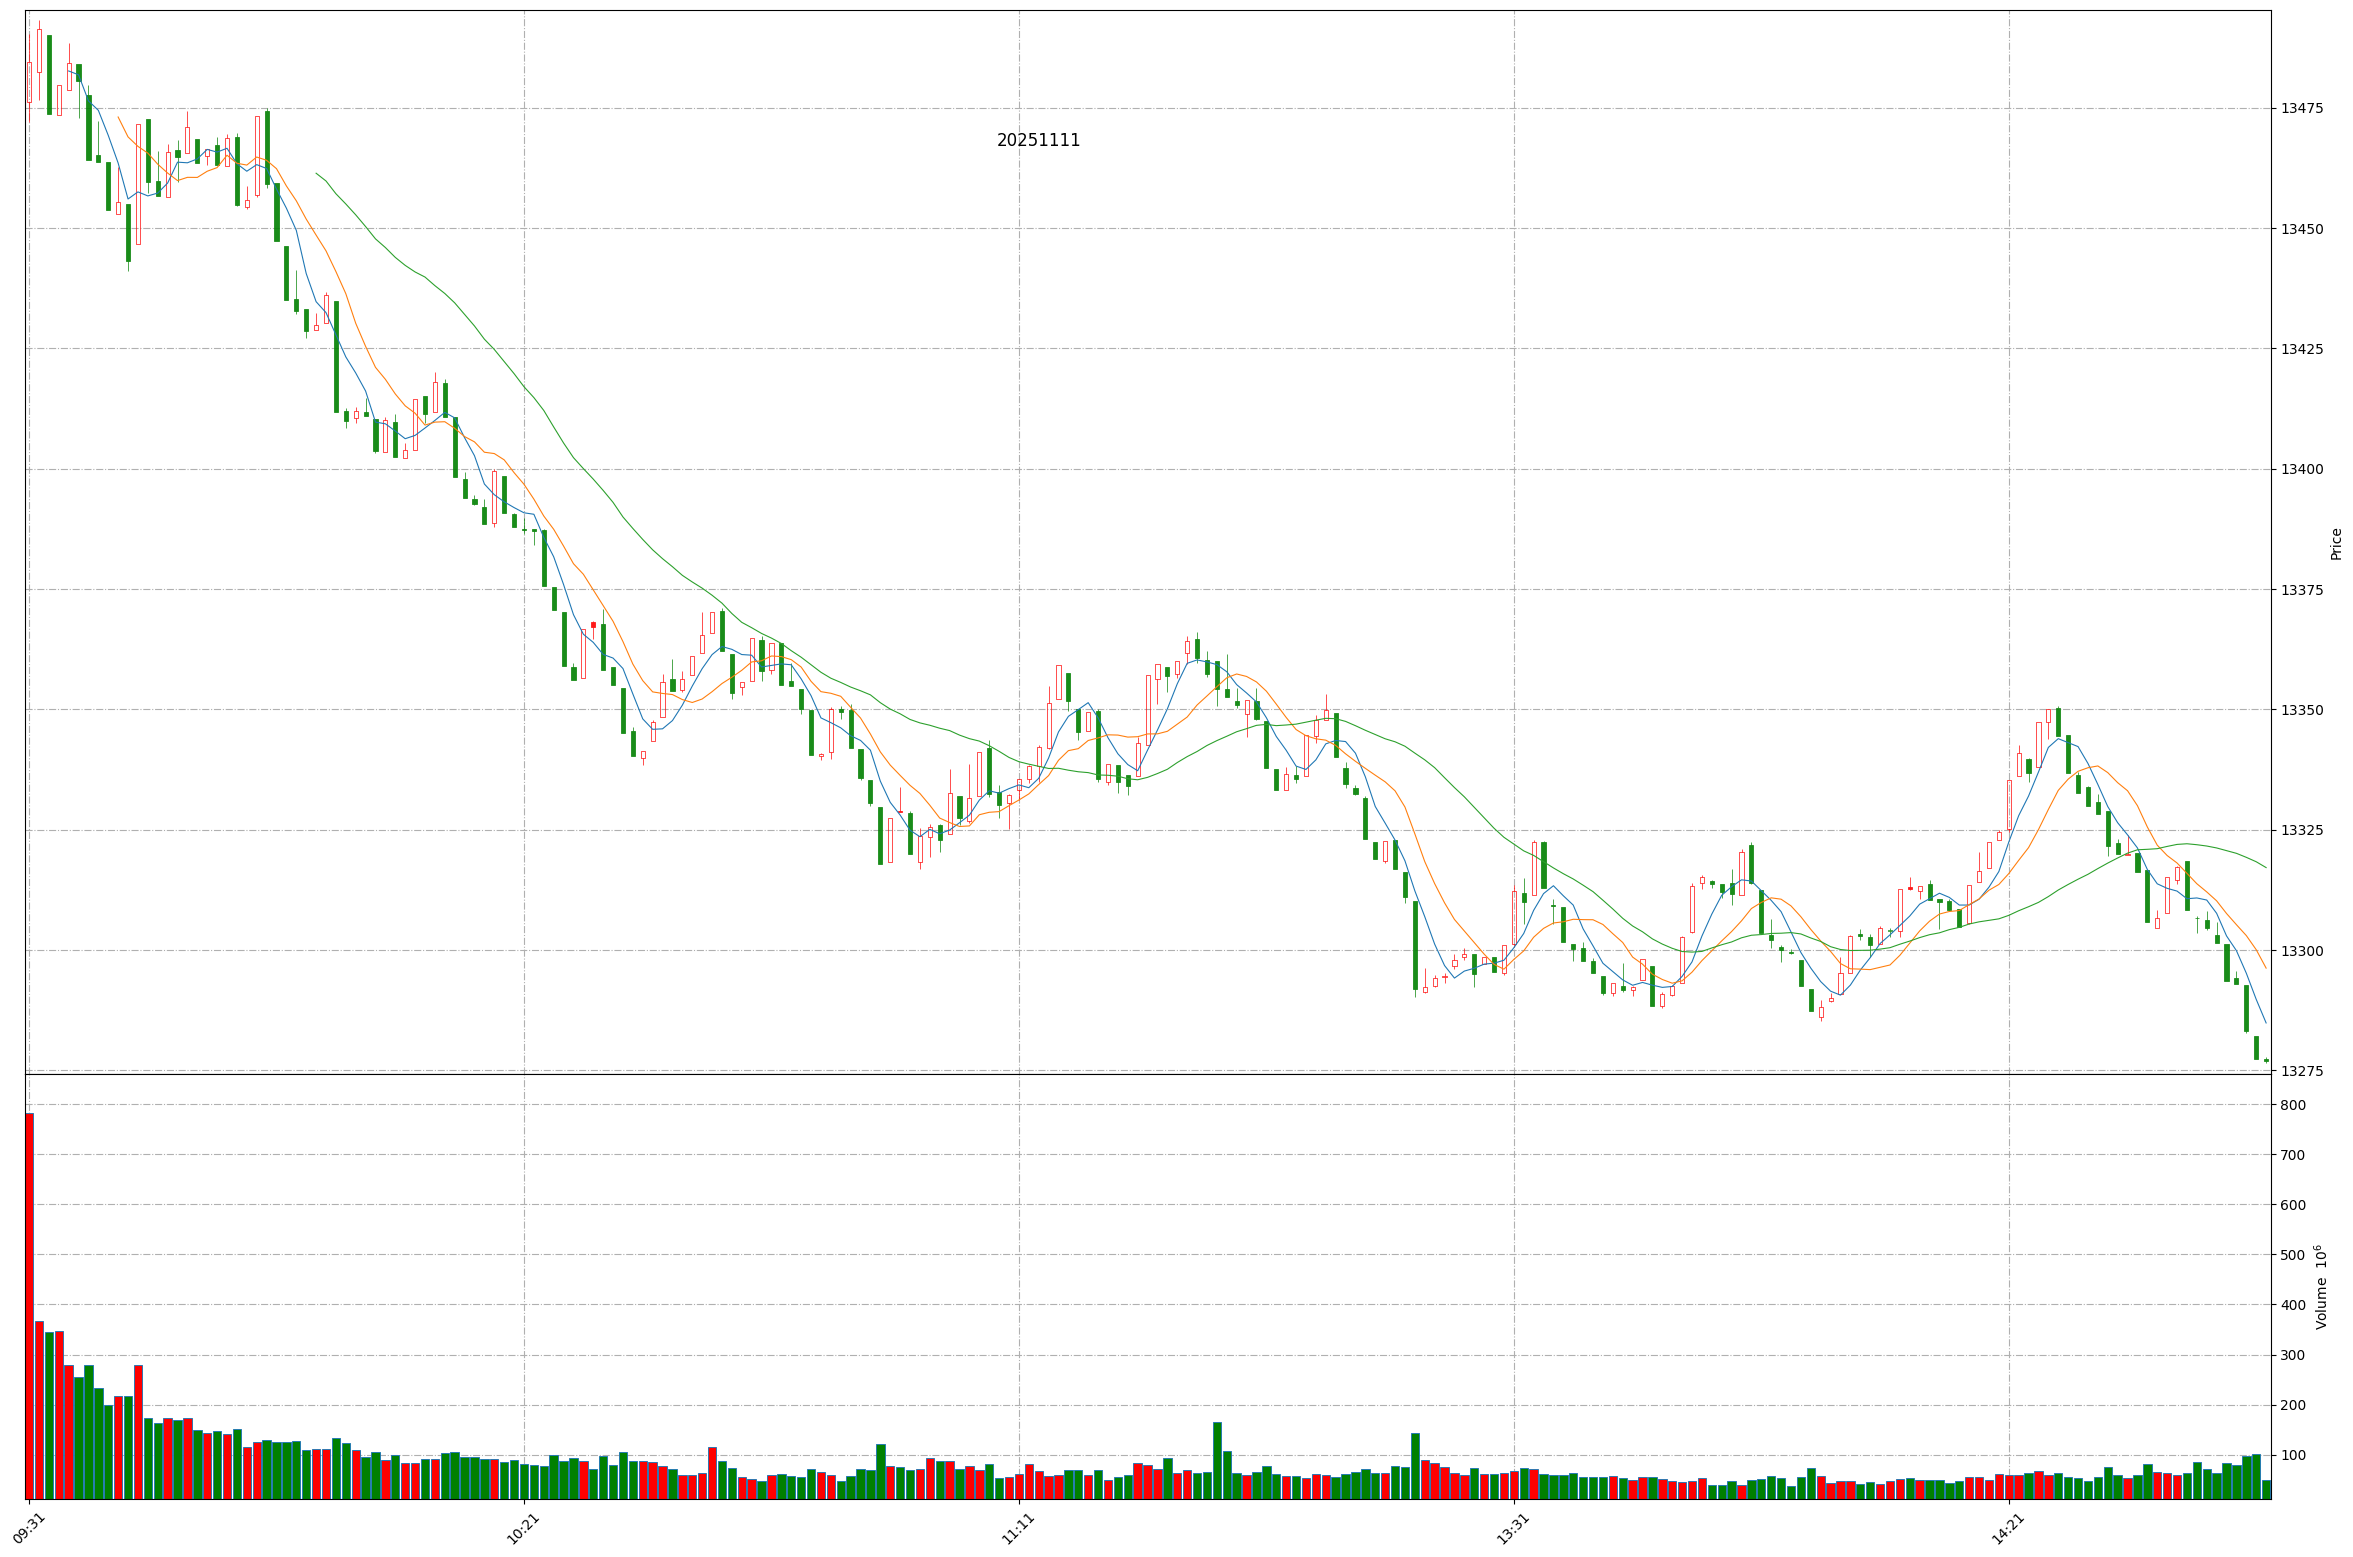
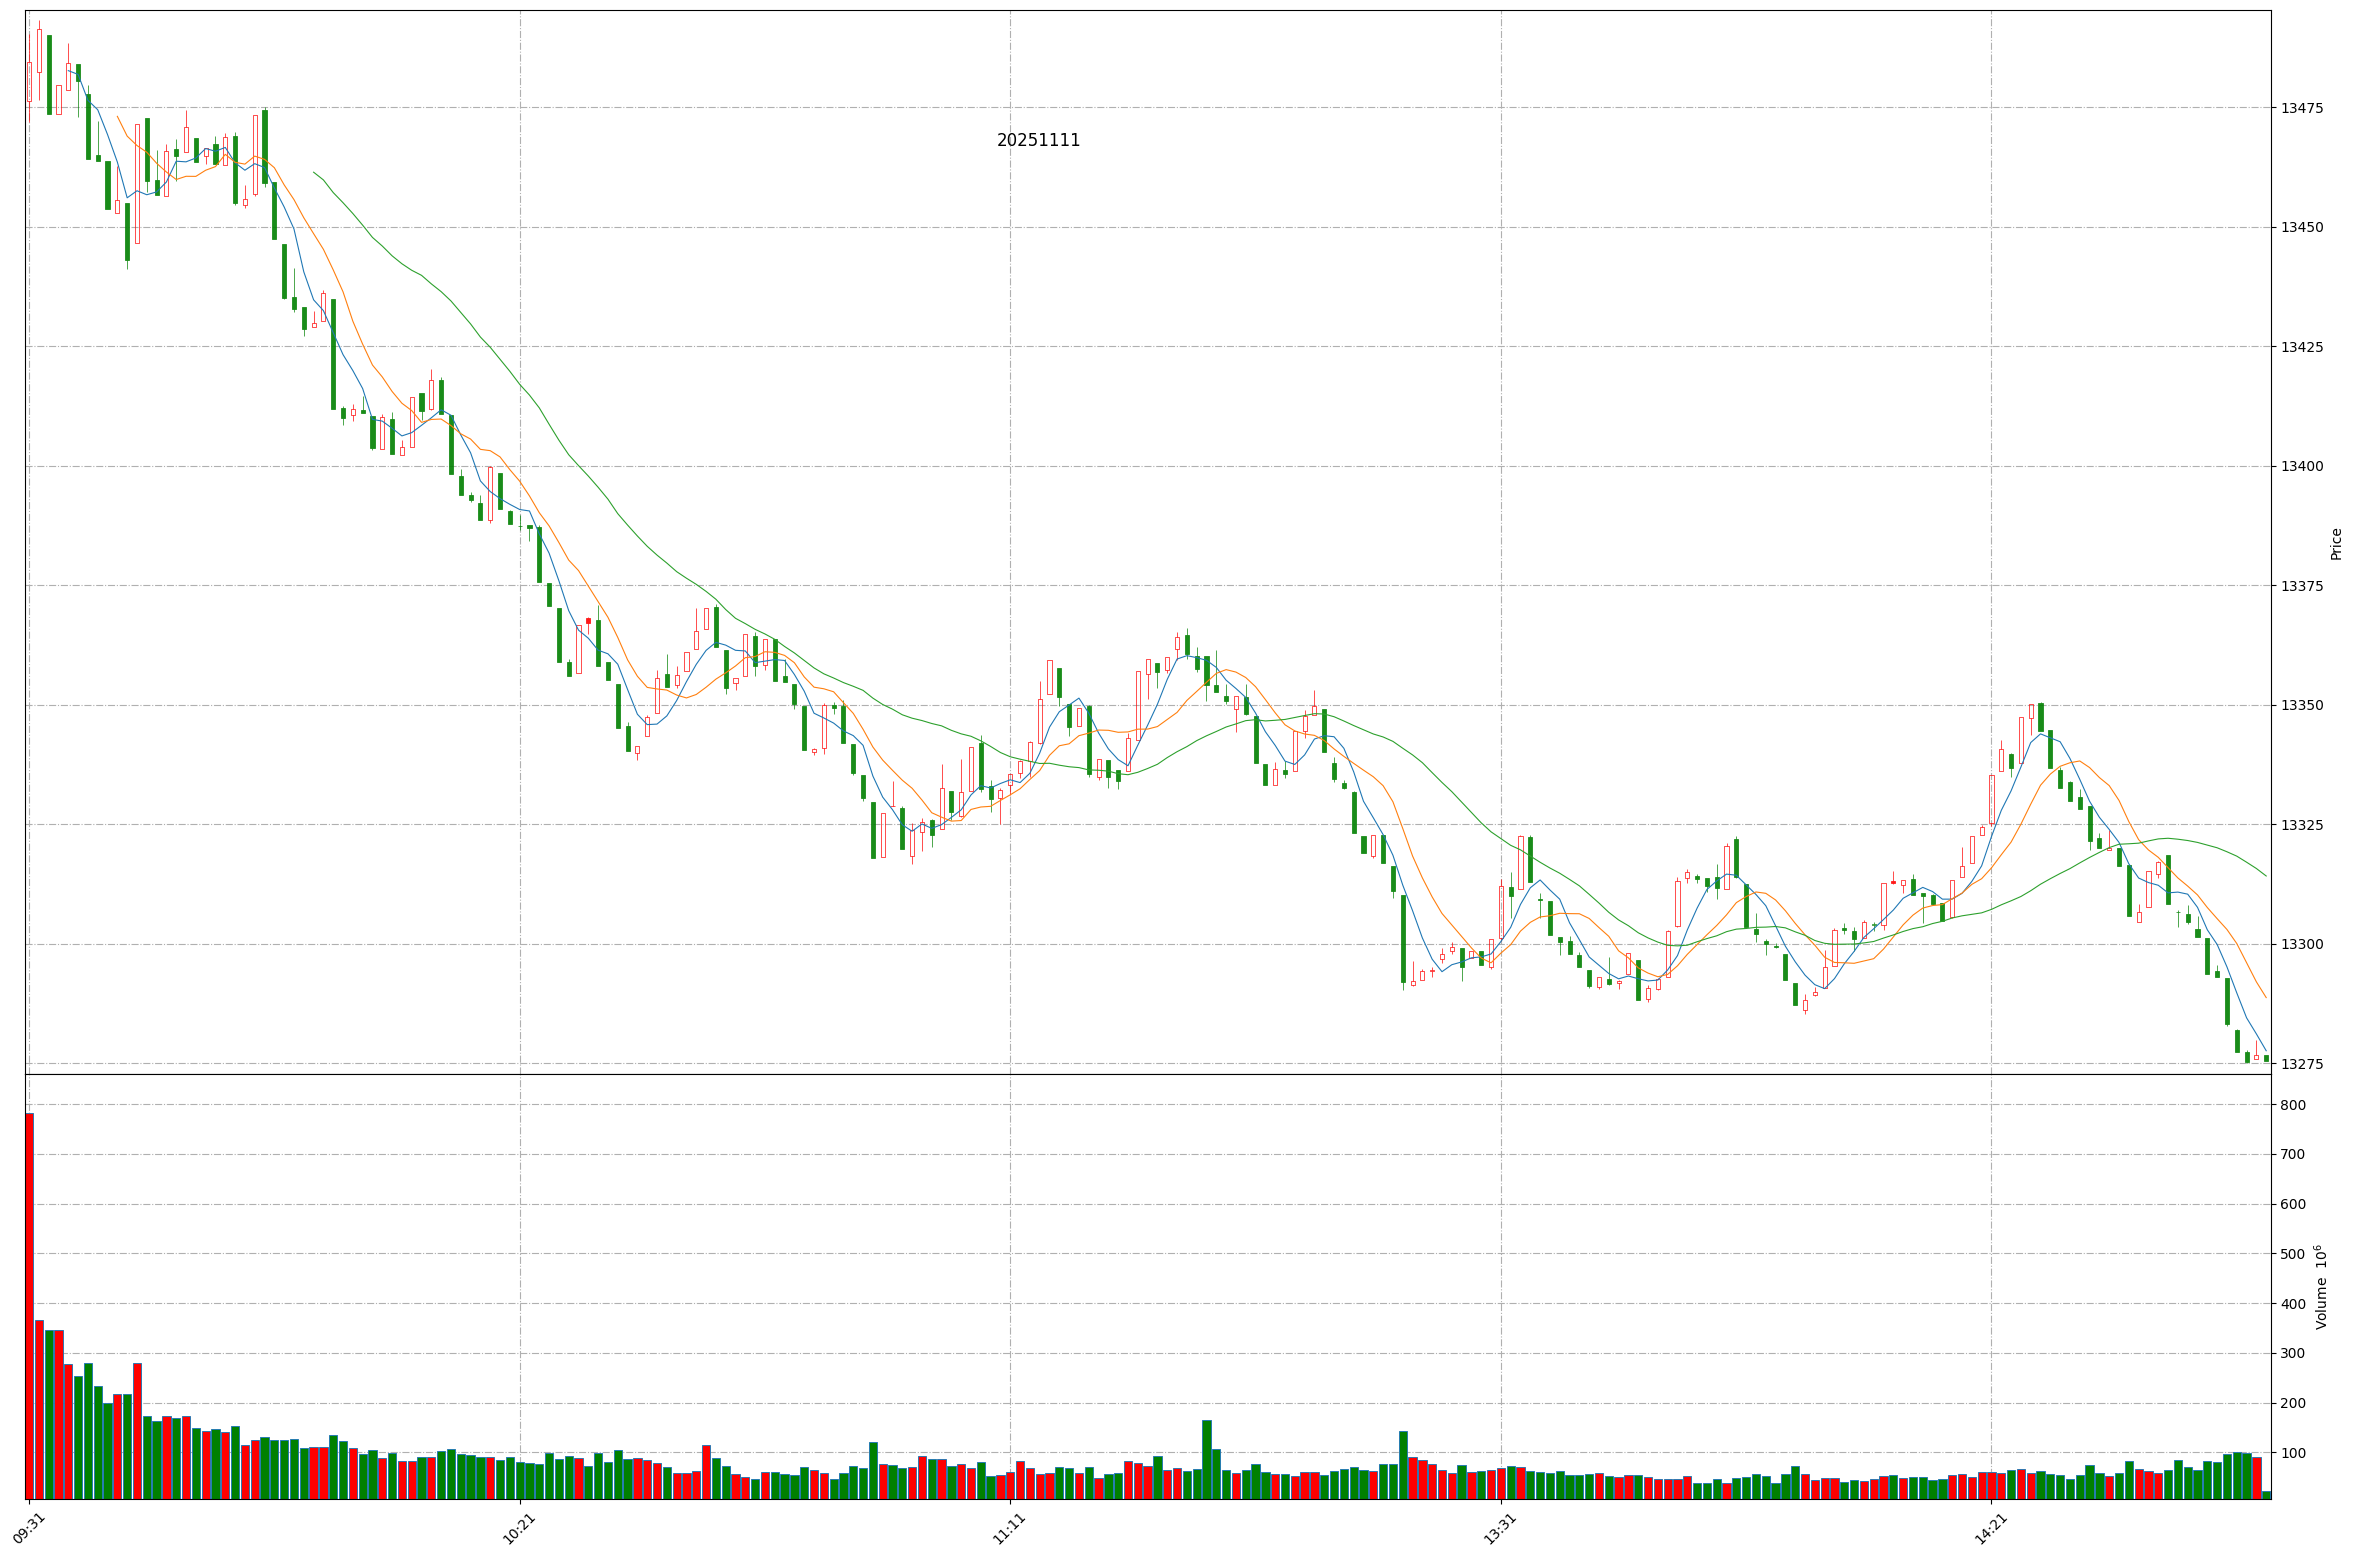
Github action update at 2025-11-11 14:48:32.

diff --git a/README.md b/README.md
@@ -1,11 +1,11 @@
 
 # Daily-A-share-market-quotes 每日 A 股指数（5min 更新）- 20251111
 
-### 上证指数 20251111 14:46
+### 上证指数 20251111 14:48
 ![](./fig/2025/11/20251111-sh000001.png)
 
-### 深证成指 20251111 14:46
+### 深证成指 20251111 14:48
 ![](./fig/2025/11/20251111-sz399001.png)
 
-### 北证50 20251111 14:46
+### 北证50 20251111 14:48
 ![](./fig/2025/11/20251111-bj899050.png)
